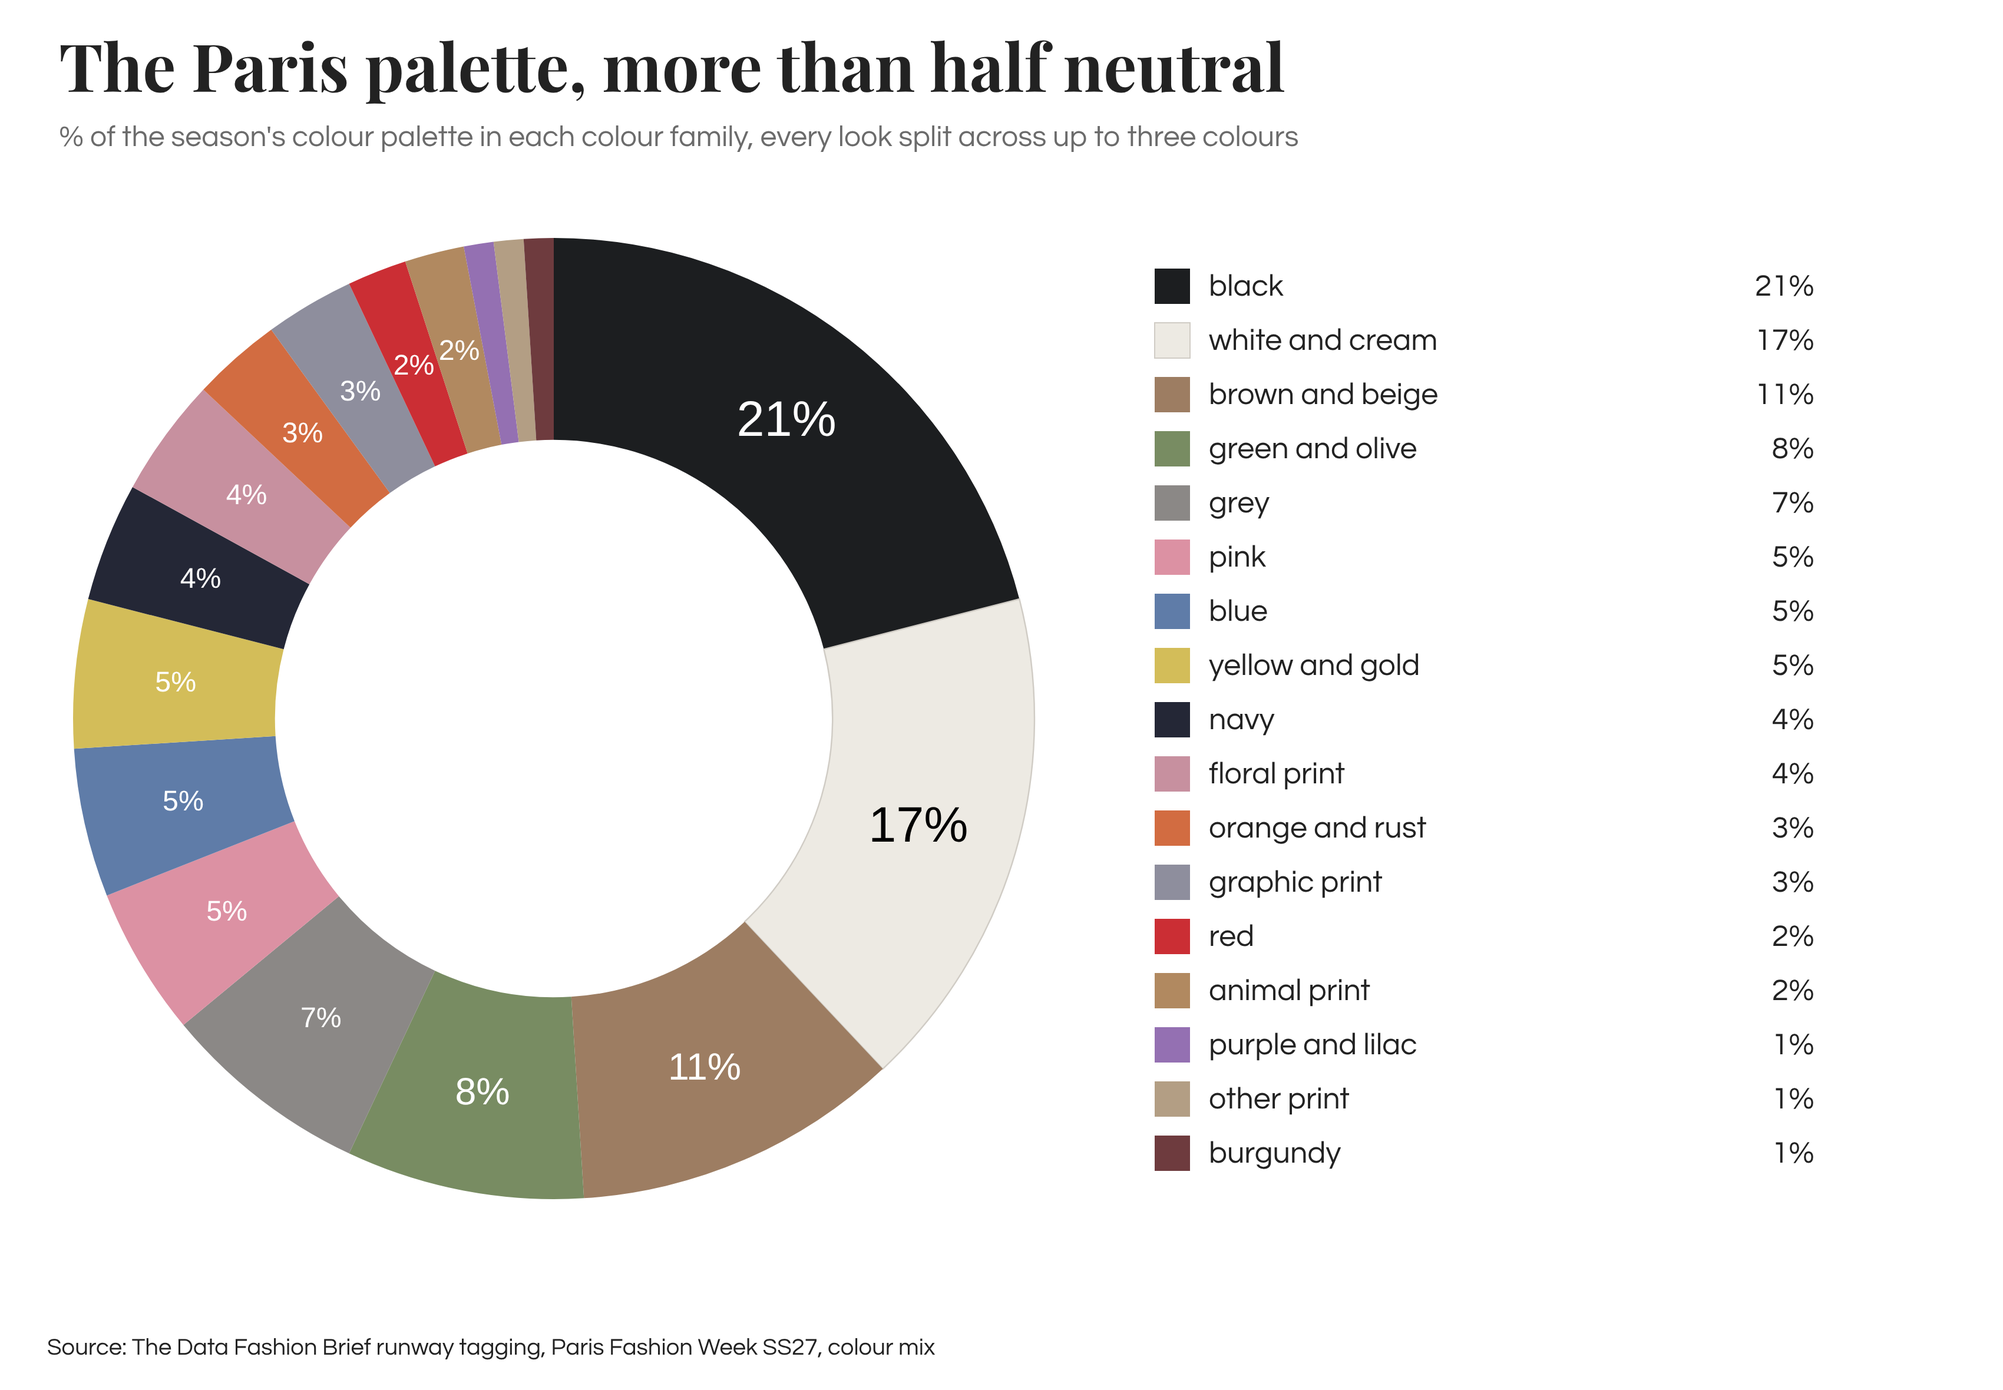
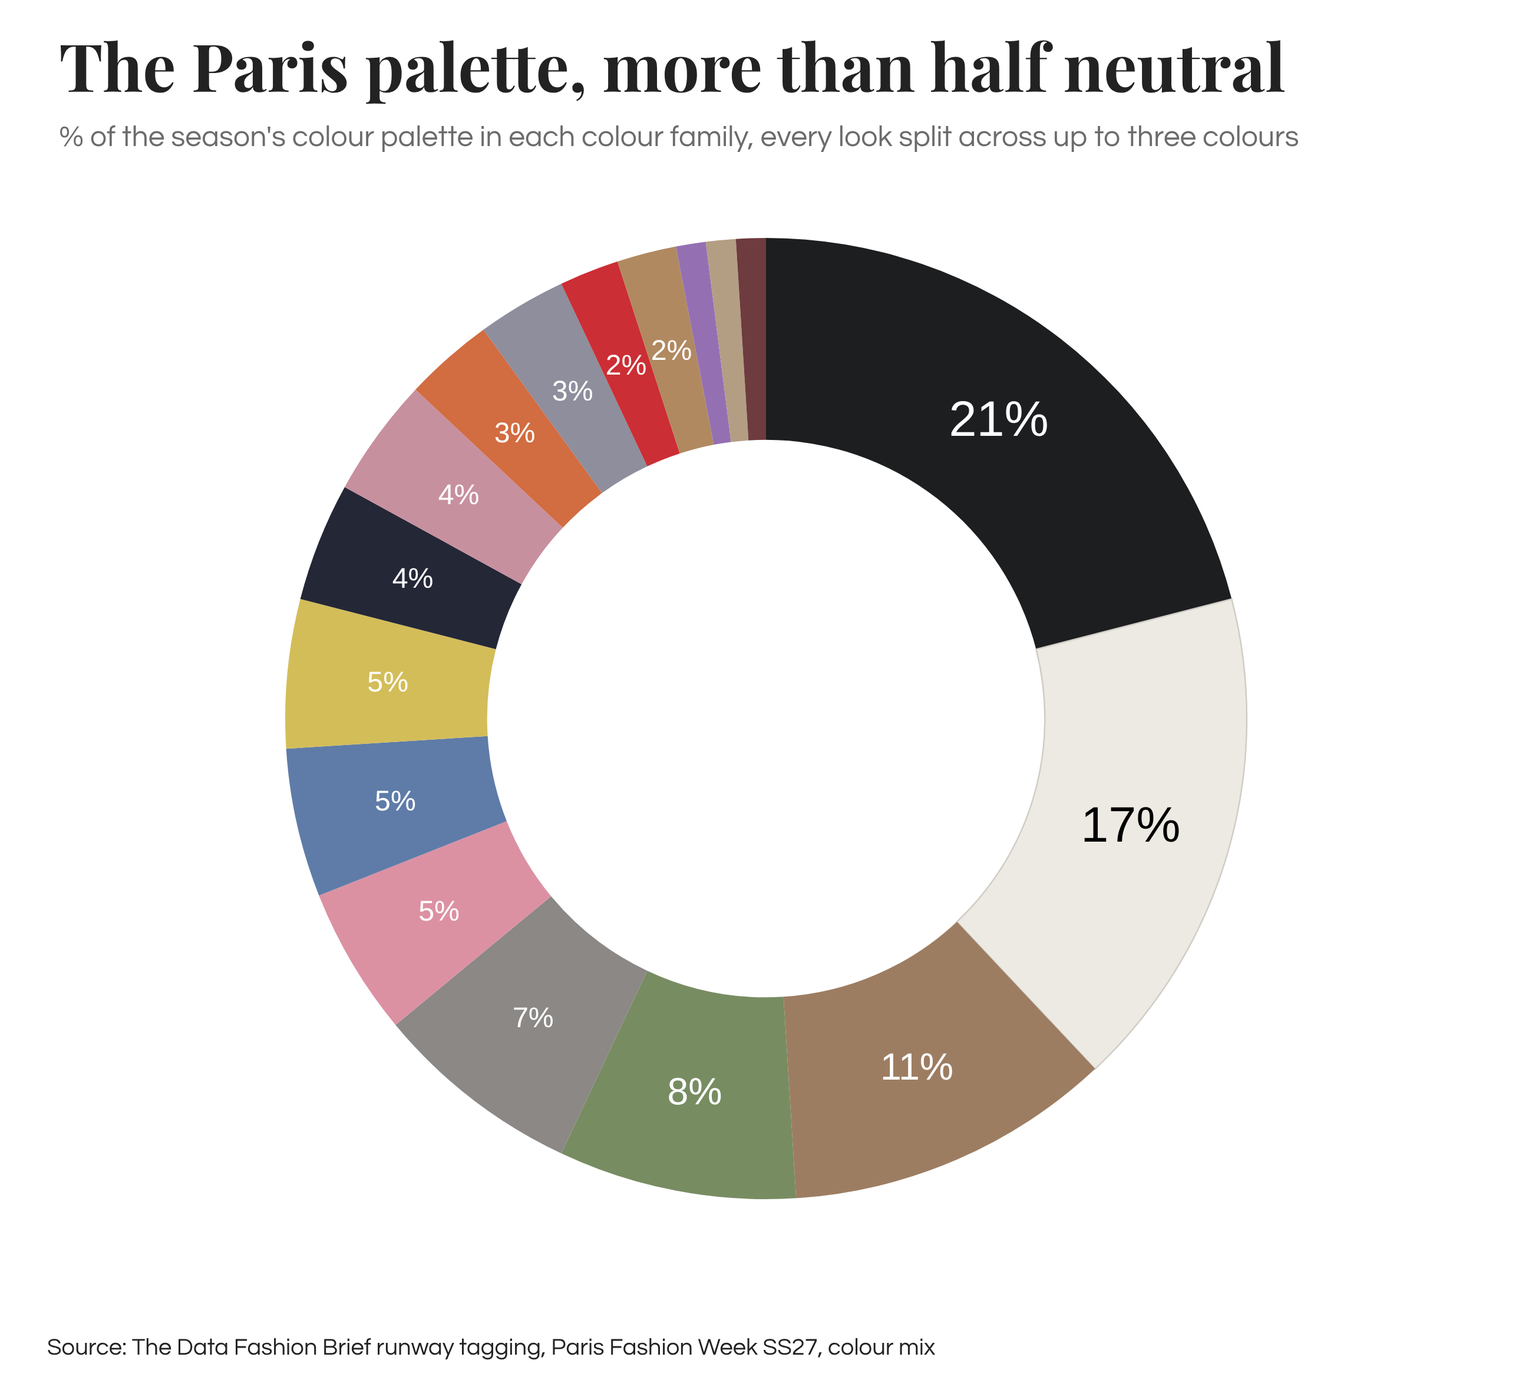
Drop the legend from the titled season donut
Claude-Session: https://claude.ai/code/session_01XDoartUBrdpTf4ap1hSHcT

diff --git a/drafts/fashionunited-maximalism-charts/05-paris-palette-donut.html b/drafts/fashionunited-maximalism-charts/05-paris-palette-donut.html
@@ -1,58 +1,7 @@
-<!doctype html><html><head><meta charset="utf-8"><link href="https://fonts.googleapis.com/css2?family=Playfair+Display:ital,wght@0,500;0,700;1,500&family=Questrial&display=swap" rel="stylesheet"><style>body{margin:0;background:#fff}</style></head><body><svg xmlns="http://www.w3.org/2000/svg" viewBox="0 0 1700 1180" width="1700" height="1180">
-<rect width="1700" height="1180" fill="#FFFFFF"/>
+<!doctype html><html><head><meta charset="utf-8"><link href="https://fonts.googleapis.com/css2?family=Playfair+Display:ital,wght@0,500;0,700;1,500&family=Questrial&display=swap" rel="stylesheet"><style>body{margin:0;background:#fff}</style></head><body><svg xmlns="http://www.w3.org/2000/svg" viewBox="0 0 1300 1180" width="1300" height="1180">
+<rect width="1300" height="1180" fill="#FFFFFF"/>
 <text x="50" y="78" font-family="'Playfair Display', Georgia, serif" font-weight="700" font-size="56" fill="#222222">The Paris palette, more than half neutral</text>
 <text x="50" y="124" font-family="'Century Gothic', 'Questrial', 'Avenir', sans-serif" font-size="25" fill="#6B6B6B">% of the season&#x27;s colour palette in each colour family, every look split across up to three colours</text>
-<svg x="60" y="200" width="820" height="820" viewBox="-2 -2 814 814"><path d="M 405.00 0.00 A 405.0 405.0 0 0 1 797.28 304.28 L 632.52 346.58 A 234.9 234.9 0 0 0 405.00 170.10 Z" fill="#1C1E20"><title>Black 21%</title></path><path d="M 797.28 304.28 A 405.0 405.0 0 0 1 682.24 700.23 L 565.80 576.23 A 234.9 234.9 0 0 0 632.52 346.58 Z" fill="#EDEAE3" stroke="#D0CCC5" stroke-width="1.2"><title>White/cream 17%</title></path><path d="M 682.24 700.23 A 405.0 405.0 0 0 1 430.43 809.20 L 419.75 639.44 A 234.9 234.9 0 0 0 565.80 576.23 Z" fill="#9D7D62"><title>Brown/beige 11%</title></path><path d="M 430.43 809.20 A 405.0 405.0 0 0 1 232.56 771.45 L 304.98 617.54 A 234.9 234.9 0 0 0 419.75 639.44 Z" fill="#788C62"><title>Green/olive 8%</title></path><path d="M 232.56 771.45 A 405.0 405.0 0 0 1 92.94 663.16 L 224.01 554.73 A 234.9 234.9 0 0 0 304.98 617.54 Z" fill="#8B8886"><title>Grey 7%</title></path><path d="M 92.94 663.16 A 405.0 405.0 0 0 1 28.44 554.09 L 186.60 491.47 A 234.9 234.9 0 0 0 224.01 554.73 Z" fill="#DC91A3"><title>Pink 5%</title></path><path d="M 28.44 554.09 A 405.0 405.0 0 0 1 0.80 430.43 L 170.56 419.75 A 234.9 234.9 0 0 0 186.60 491.47 Z" fill="#5F7CA8"><title>Blue 5%</title></path><path d="M 0.80 430.43 A 405.0 405.0 0 0 1 12.72 304.28 L 177.48 346.58 A 234.9 234.9 0 0 0 170.56 419.75 Z" fill="#D3BD59"><title>Yellow/gold 5%</title></path><path d="M 12.72 304.28 A 405.0 405.0 0 0 1 50.10 209.89 L 199.16 291.84 A 234.9 234.9 0 0 0 177.48 346.58 Z" fill="#242736"><title>Navy 4%</title></path><path d="M 50.10 209.89 A 405.0 405.0 0 0 1 109.77 127.76 L 233.77 244.20 A 234.9 234.9 0 0 0 199.16 291.84 Z" fill="#C7909F"><title>Floral print 4%</title></path><path d="M 109.77 127.76 A 405.0 405.0 0 0 1 166.95 77.35 L 266.93 214.96 A 234.9 234.9 0 0 0 233.77 244.20 Z" fill="#D26C41"><title>Orange/rust 3%</title></path><path d="M 166.95 77.35 A 405.0 405.0 0 0 1 232.56 38.55 L 304.98 192.46 A 234.9 234.9 0 0 0 266.93 214.96 Z" fill="#8E8E9D"><title>Graphic print 3%</title></path><path d="M 232.56 38.55 A 405.0 405.0 0 0 1 279.85 19.82 L 332.41 181.60 A 234.9 234.9 0 0 0 304.98 192.46 Z" fill="#CB2E34"><title>Red 2%</title></path><path d="M 279.85 19.82 A 405.0 405.0 0 0 1 329.11 7.17 L 360.98 174.26 A 234.9 234.9 0 0 0 332.41 181.60 Z" fill="#B18960"><title>Animal print 2%</title></path><path d="M 329.11 7.17 A 405.0 405.0 0 0 1 354.24 3.19 L 375.56 171.95 A 234.9 234.9 0 0 0 360.98 174.26 Z" fill="#9470B2"><title>Purple/lilac 1%</title></path><path d="M 354.24 3.19 A 405.0 405.0 0 0 1 379.57 0.80 L 390.25 170.56 A 234.9 234.9 0 0 0 375.56 171.95 Z" fill="#B39E84"><title>Other print 1%</title></path><path d="M 379.57 0.80 A 405.0 405.0 0 0 1 405.00 0.00 L 405.00 170.10 A 234.9 234.9 0 0 0 390.25 170.56 Z" fill="#6E3B3E"><title>Burgundy 1%</title></path><text x="601.1" y="152.2" text-anchor="middle" dominant-baseline="central" font-family="Arimo, Arial, sans-serif" font-size="42" fill="#FFFFFF">21%</text><text x="712.2" y="494.3" text-anchor="middle" dominant-baseline="central" font-family="Arimo, Arial, sans-serif" font-size="42" fill="#000000">17%</text><text x="532.1" y="698.6" text-anchor="middle" dominant-baseline="central" font-family="Arimo, Arial, sans-serif" font-size="32" fill="#FFFFFF">11%</text><text x="345.0" y="719.3" text-anchor="middle" dominant-baseline="central" font-family="Arimo, Arial, sans-serif" font-size="32" fill="#FFFFFF">8%</text><text x="208.9" y="657.8" text-anchor="middle" dominant-baseline="central" font-family="Arimo, Arial, sans-serif" font-size="24" fill="#FFFFFF">7%</text><text x="129.6" y="567.9" text-anchor="middle" dominant-baseline="central" font-family="Arimo, Arial, sans-serif" font-size="24" fill="#FFFFFF">5%</text><text x="92.8" y="474.8" text-anchor="middle" dominant-baseline="central" font-family="Arimo, Arial, sans-serif" font-size="24" fill="#FFFFFF">5%</text><text x="86.5" y="374.9" text-anchor="middle" dominant-baseline="central" font-family="Arimo, Arial, sans-serif" font-size="24" fill="#FFFFFF">5%</text><text x="107.5" y="287.2" text-anchor="middle" dominant-baseline="central" font-family="Arimo, Arial, sans-serif" font-size="24" fill="#FFFFFF">4%</text><text x="146.2" y="216.9" text-anchor="middle" dominant-baseline="central" font-family="Arimo, Arial, sans-serif" font-size="24" fill="#FFFFFF">4%</text><text x="193.4" y="165.0" text-anchor="middle" dominant-baseline="central" font-family="Arimo, Arial, sans-serif" font-size="24" fill="#FFFFFF">3%</text><text x="242.1" y="129.6" text-anchor="middle" dominant-baseline="central" font-family="Arimo, Arial, sans-serif" font-size="24" fill="#FFFFFF">3%</text><text x="287.2" y="107.5" text-anchor="middle" dominant-baseline="central" font-family="Arimo, Arial, sans-serif" font-size="24" fill="#FFFFFF">2%</text><text x="325.4" y="95.1" text-anchor="middle" dominant-baseline="central" font-family="Arimo, Arial, sans-serif" font-size="24" fill="#FFFFFF">2%</text></svg>
-<rect x="980" y="228" width="30" height="30" fill="#1C1E20"/>
-<text x="1026" y="251" font-family="'Century Gothic', 'Questrial', 'Avenir', sans-serif" font-size="26" fill="#222222">black</text>
-<text x="1540" y="251" text-anchor="end" font-family="'Century Gothic', 'Questrial', 'Avenir', sans-serif" font-size="26" fill="#222222">21%</text>
-<rect x="980" y="274" width="30" height="30" fill="#EDEAE3" stroke="#D0CCC5" stroke-width="1"/>
-<text x="1026" y="297" font-family="'Century Gothic', 'Questrial', 'Avenir', sans-serif" font-size="26" fill="#222222">white and cream</text>
-<text x="1540" y="297" text-anchor="end" font-family="'Century Gothic', 'Questrial', 'Avenir', sans-serif" font-size="26" fill="#222222">17%</text>
-<rect x="980" y="320" width="30" height="30" fill="#9D7D62"/>
-<text x="1026" y="343" font-family="'Century Gothic', 'Questrial', 'Avenir', sans-serif" font-size="26" fill="#222222">brown and beige</text>
-<text x="1540" y="343" text-anchor="end" font-family="'Century Gothic', 'Questrial', 'Avenir', sans-serif" font-size="26" fill="#222222">11%</text>
-<rect x="980" y="366" width="30" height="30" fill="#788C62"/>
-<text x="1026" y="389" font-family="'Century Gothic', 'Questrial', 'Avenir', sans-serif" font-size="26" fill="#222222">green and olive</text>
-<text x="1540" y="389" text-anchor="end" font-family="'Century Gothic', 'Questrial', 'Avenir', sans-serif" font-size="26" fill="#222222">8%</text>
-<rect x="980" y="412" width="30" height="30" fill="#8B8886"/>
-<text x="1026" y="435" font-family="'Century Gothic', 'Questrial', 'Avenir', sans-serif" font-size="26" fill="#222222">grey</text>
-<text x="1540" y="435" text-anchor="end" font-family="'Century Gothic', 'Questrial', 'Avenir', sans-serif" font-size="26" fill="#222222">7%</text>
-<rect x="980" y="458" width="30" height="30" fill="#DC91A3"/>
-<text x="1026" y="481" font-family="'Century Gothic', 'Questrial', 'Avenir', sans-serif" font-size="26" fill="#222222">pink</text>
-<text x="1540" y="481" text-anchor="end" font-family="'Century Gothic', 'Questrial', 'Avenir', sans-serif" font-size="26" fill="#222222">5%</text>
-<rect x="980" y="504" width="30" height="30" fill="#5F7CA8"/>
-<text x="1026" y="527" font-family="'Century Gothic', 'Questrial', 'Avenir', sans-serif" font-size="26" fill="#222222">blue</text>
-<text x="1540" y="527" text-anchor="end" font-family="'Century Gothic', 'Questrial', 'Avenir', sans-serif" font-size="26" fill="#222222">5%</text>
-<rect x="980" y="550" width="30" height="30" fill="#D3BD59"/>
-<text x="1026" y="573" font-family="'Century Gothic', 'Questrial', 'Avenir', sans-serif" font-size="26" fill="#222222">yellow and gold</text>
-<text x="1540" y="573" text-anchor="end" font-family="'Century Gothic', 'Questrial', 'Avenir', sans-serif" font-size="26" fill="#222222">5%</text>
-<rect x="980" y="596" width="30" height="30" fill="#242736"/>
-<text x="1026" y="619" font-family="'Century Gothic', 'Questrial', 'Avenir', sans-serif" font-size="26" fill="#222222">navy</text>
-<text x="1540" y="619" text-anchor="end" font-family="'Century Gothic', 'Questrial', 'Avenir', sans-serif" font-size="26" fill="#222222">4%</text>
-<rect x="980" y="642" width="30" height="30" fill="#C7909F"/>
-<text x="1026" y="665" font-family="'Century Gothic', 'Questrial', 'Avenir', sans-serif" font-size="26" fill="#222222">floral print</text>
-<text x="1540" y="665" text-anchor="end" font-family="'Century Gothic', 'Questrial', 'Avenir', sans-serif" font-size="26" fill="#222222">4%</text>
-<rect x="980" y="688" width="30" height="30" fill="#D26C41"/>
-<text x="1026" y="711" font-family="'Century Gothic', 'Questrial', 'Avenir', sans-serif" font-size="26" fill="#222222">orange and rust</text>
-<text x="1540" y="711" text-anchor="end" font-family="'Century Gothic', 'Questrial', 'Avenir', sans-serif" font-size="26" fill="#222222">3%</text>
-<rect x="980" y="734" width="30" height="30" fill="#8E8E9D"/>
-<text x="1026" y="757" font-family="'Century Gothic', 'Questrial', 'Avenir', sans-serif" font-size="26" fill="#222222">graphic print</text>
-<text x="1540" y="757" text-anchor="end" font-family="'Century Gothic', 'Questrial', 'Avenir', sans-serif" font-size="26" fill="#222222">3%</text>
-<rect x="980" y="780" width="30" height="30" fill="#CB2E34"/>
-<text x="1026" y="803" font-family="'Century Gothic', 'Questrial', 'Avenir', sans-serif" font-size="26" fill="#222222">red</text>
-<text x="1540" y="803" text-anchor="end" font-family="'Century Gothic', 'Questrial', 'Avenir', sans-serif" font-size="26" fill="#222222">2%</text>
-<rect x="980" y="826" width="30" height="30" fill="#B18960"/>
-<text x="1026" y="849" font-family="'Century Gothic', 'Questrial', 'Avenir', sans-serif" font-size="26" fill="#222222">animal print</text>
-<text x="1540" y="849" text-anchor="end" font-family="'Century Gothic', 'Questrial', 'Avenir', sans-serif" font-size="26" fill="#222222">2%</text>
-<rect x="980" y="872" width="30" height="30" fill="#9470B2"/>
-<text x="1026" y="895" font-family="'Century Gothic', 'Questrial', 'Avenir', sans-serif" font-size="26" fill="#222222">purple and lilac</text>
-<text x="1540" y="895" text-anchor="end" font-family="'Century Gothic', 'Questrial', 'Avenir', sans-serif" font-size="26" fill="#222222">1%</text>
-<rect x="980" y="918" width="30" height="30" fill="#B39E84"/>
-<text x="1026" y="941" font-family="'Century Gothic', 'Questrial', 'Avenir', sans-serif" font-size="26" fill="#222222">other print</text>
-<text x="1540" y="941" text-anchor="end" font-family="'Century Gothic', 'Questrial', 'Avenir', sans-serif" font-size="26" fill="#222222">1%</text>
-<rect x="980" y="964" width="30" height="30" fill="#6E3B3E"/>
-<text x="1026" y="987" font-family="'Century Gothic', 'Questrial', 'Avenir', sans-serif" font-size="26" fill="#222222">burgundy</text>
-<text x="1540" y="987" text-anchor="end" font-family="'Century Gothic', 'Questrial', 'Avenir', sans-serif" font-size="26" fill="#222222">1%</text>
+<svg x="240.0" y="200" width="820" height="820" viewBox="-2 -2 814 814"><path d="M 405.00 0.00 A 405.0 405.0 0 0 1 797.28 304.28 L 632.52 346.58 A 234.9 234.9 0 0 0 405.00 170.10 Z" fill="#1C1E20"><title>Black 21%</title></path><path d="M 797.28 304.28 A 405.0 405.0 0 0 1 682.24 700.23 L 565.80 576.23 A 234.9 234.9 0 0 0 632.52 346.58 Z" fill="#EDEAE3" stroke="#D0CCC5" stroke-width="1.2"><title>White/cream 17%</title></path><path d="M 682.24 700.23 A 405.0 405.0 0 0 1 430.43 809.20 L 419.75 639.44 A 234.9 234.9 0 0 0 565.80 576.23 Z" fill="#9D7D62"><title>Brown/beige 11%</title></path><path d="M 430.43 809.20 A 405.0 405.0 0 0 1 232.56 771.45 L 304.98 617.54 A 234.9 234.9 0 0 0 419.75 639.44 Z" fill="#788C62"><title>Green/olive 8%</title></path><path d="M 232.56 771.45 A 405.0 405.0 0 0 1 92.94 663.16 L 224.01 554.73 A 234.9 234.9 0 0 0 304.98 617.54 Z" fill="#8B8886"><title>Grey 7%</title></path><path d="M 92.94 663.16 A 405.0 405.0 0 0 1 28.44 554.09 L 186.60 491.47 A 234.9 234.9 0 0 0 224.01 554.73 Z" fill="#DC91A3"><title>Pink 5%</title></path><path d="M 28.44 554.09 A 405.0 405.0 0 0 1 0.80 430.43 L 170.56 419.75 A 234.9 234.9 0 0 0 186.60 491.47 Z" fill="#5F7CA8"><title>Blue 5%</title></path><path d="M 0.80 430.43 A 405.0 405.0 0 0 1 12.72 304.28 L 177.48 346.58 A 234.9 234.9 0 0 0 170.56 419.75 Z" fill="#D3BD59"><title>Yellow/gold 5%</title></path><path d="M 12.72 304.28 A 405.0 405.0 0 0 1 50.10 209.89 L 199.16 291.84 A 234.9 234.9 0 0 0 177.48 346.58 Z" fill="#242736"><title>Navy 4%</title></path><path d="M 50.10 209.89 A 405.0 405.0 0 0 1 109.77 127.76 L 233.77 244.20 A 234.9 234.9 0 0 0 199.16 291.84 Z" fill="#C7909F"><title>Floral print 4%</title></path><path d="M 109.77 127.76 A 405.0 405.0 0 0 1 166.95 77.35 L 266.93 214.96 A 234.9 234.9 0 0 0 233.77 244.20 Z" fill="#D26C41"><title>Orange/rust 3%</title></path><path d="M 166.95 77.35 A 405.0 405.0 0 0 1 232.56 38.55 L 304.98 192.46 A 234.9 234.9 0 0 0 266.93 214.96 Z" fill="#8E8E9D"><title>Graphic print 3%</title></path><path d="M 232.56 38.55 A 405.0 405.0 0 0 1 279.85 19.82 L 332.41 181.60 A 234.9 234.9 0 0 0 304.98 192.46 Z" fill="#CB2E34"><title>Red 2%</title></path><path d="M 279.85 19.82 A 405.0 405.0 0 0 1 329.11 7.17 L 360.98 174.26 A 234.9 234.9 0 0 0 332.41 181.60 Z" fill="#B18960"><title>Animal print 2%</title></path><path d="M 329.11 7.17 A 405.0 405.0 0 0 1 354.24 3.19 L 375.56 171.95 A 234.9 234.9 0 0 0 360.98 174.26 Z" fill="#9470B2"><title>Purple/lilac 1%</title></path><path d="M 354.24 3.19 A 405.0 405.0 0 0 1 379.57 0.80 L 390.25 170.56 A 234.9 234.9 0 0 0 375.56 171.95 Z" fill="#B39E84"><title>Other print 1%</title></path><path d="M 379.57 0.80 A 405.0 405.0 0 0 1 405.00 0.00 L 405.00 170.10 A 234.9 234.9 0 0 0 390.25 170.56 Z" fill="#6E3B3E"><title>Burgundy 1%</title></path><text x="601.1" y="152.2" text-anchor="middle" dominant-baseline="central" font-family="Arimo, Arial, sans-serif" font-size="42" fill="#FFFFFF">21%</text><text x="712.2" y="494.3" text-anchor="middle" dominant-baseline="central" font-family="Arimo, Arial, sans-serif" font-size="42" fill="#000000">17%</text><text x="532.1" y="698.6" text-anchor="middle" dominant-baseline="central" font-family="Arimo, Arial, sans-serif" font-size="32" fill="#FFFFFF">11%</text><text x="345.0" y="719.3" text-anchor="middle" dominant-baseline="central" font-family="Arimo, Arial, sans-serif" font-size="32" fill="#FFFFFF">8%</text><text x="208.9" y="657.8" text-anchor="middle" dominant-baseline="central" font-family="Arimo, Arial, sans-serif" font-size="24" fill="#FFFFFF">7%</text><text x="129.6" y="567.9" text-anchor="middle" dominant-baseline="central" font-family="Arimo, Arial, sans-serif" font-size="24" fill="#FFFFFF">5%</text><text x="92.8" y="474.8" text-anchor="middle" dominant-baseline="central" font-family="Arimo, Arial, sans-serif" font-size="24" fill="#FFFFFF">5%</text><text x="86.5" y="374.9" text-anchor="middle" dominant-baseline="central" font-family="Arimo, Arial, sans-serif" font-size="24" fill="#FFFFFF">5%</text><text x="107.5" y="287.2" text-anchor="middle" dominant-baseline="central" font-family="Arimo, Arial, sans-serif" font-size="24" fill="#FFFFFF">4%</text><text x="146.2" y="216.9" text-anchor="middle" dominant-baseline="central" font-family="Arimo, Arial, sans-serif" font-size="24" fill="#FFFFFF">4%</text><text x="193.4" y="165.0" text-anchor="middle" dominant-baseline="central" font-family="Arimo, Arial, sans-serif" font-size="24" fill="#FFFFFF">3%</text><text x="242.1" y="129.6" text-anchor="middle" dominant-baseline="central" font-family="Arimo, Arial, sans-serif" font-size="24" fill="#FFFFFF">3%</text><text x="287.2" y="107.5" text-anchor="middle" dominant-baseline="central" font-family="Arimo, Arial, sans-serif" font-size="24" fill="#FFFFFF">2%</text><text x="325.4" y="95.1" text-anchor="middle" dominant-baseline="central" font-family="Arimo, Arial, sans-serif" font-size="24" fill="#FFFFFF">2%</text></svg>
 <text x="40" y="1150" font-family="'Century Gothic', 'Questrial', 'Avenir', sans-serif" font-size="20" fill="#222222">Source: The Data Fashion Brief runway tagging, Paris Fashion Week SS27, colour mix</text>
 </svg></body></html>

diff --git a/drafts/fashionunited-maximalism-charts/build_charts.py b/drafts/fashionunited-maximalism-charts/build_charts.py
@@ -51,24 +51,15 @@ charts.append(hbar_chart('04-paris-palette', 'The Paris palette, more than half 
     palette, PARIS_SRC + ', colour mix', highlight=(0, 1, 2, 4)))
 
 # 5. Season donut with a title: the colour index donut inlined under a FashionUnited head,
-#    with a small legend on the right so the slices can be named without a caption.
+#    no legend, as on the Substack version (Carmen's call).
 import re as _re
 donut = open(f'{HERE}/../paris-ss27-colour/donut-season.svg').read()
 inner = donut[donut.index('>') + 1:donut.rindex('</svg>')]
 slices = _re.findall(r'fill="(#[0-9A-Fa-f]{6})"[^>]*><title>([^<]+)</title>', donut)
-W, H = 1700, 1180
+W, H = 1300, 1180
 p = head(W, H, 'The Paris palette, more than half neutral',
          "% of the season's colour palette in each colour family, every look split across up to three colours")
-p.append(f'<svg x="60" y="200" width="820" height="820" viewBox="-2 -2 814 814">{inner}</svg>')
-lx, ly = 980, 250
-for i, (col, lab) in enumerate(slices):
-    name, pct = lab.rsplit(' ', 1)
-    name = name.replace('/', ' and ').lower()
-    y = ly + i * 46
-    stroke = ' stroke="#D0CCC5" stroke-width="1"' if col.upper() == '#EDEAE3' else ''
-    p.append(f'<rect x="{lx}" y="{y-22}" width="30" height="30" fill="{col}"{stroke}/>')
-    p.append(f'<text x="{lx+46}" y="{y+1}" font-family="{SANS}" font-size="26" fill="{INK}">{html.escape(name)}</text>')
-    p.append(f'<text x="{lx+560}" y="{y+1}" text-anchor="end" font-family="{SANS}" font-size="26" fill="{INK}">{html.escape(pct)}</text>')
+p.append(f'<svg x="{(W-820)/2}" y="200" width="820" height="820" viewBox="-2 -2 814 814">{inner}</svg>')
 p.append(f'<text x="40" y="{H-30}" font-family="{SANS}" font-size="20" fill="{INK}">{html.escape(PARIS_SRC + ", colour mix")}</text>')
 p.append('</svg>')
 charts.append(('05-paris-palette-donut', '\n'.join(p), H))
